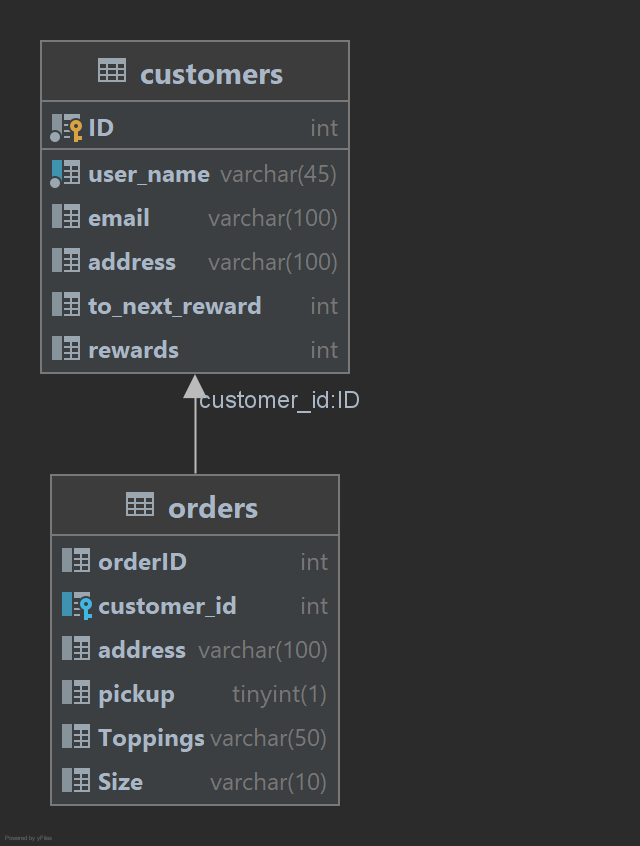
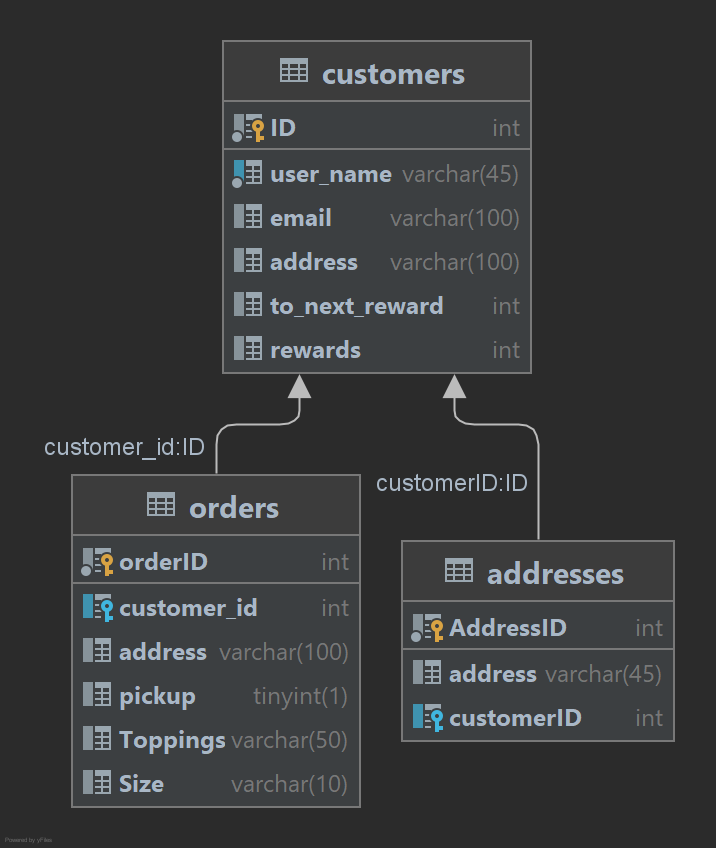
ERD updated

diff --git a/src/main/java/com/mistertoo/pizzawebsite/entity/Address.java b/src/main/java/com/mistertoo/pizzawebsite/entity/Address.java
@@ -1,0 +1,44 @@
+package com.mistertoo.pizzawebsite.entity;
+
+import javax.persistence.*;
+
+@Table(name = "addresses", indexes = {
+        @Index(name = "customerID_idx", columnList = "customerID")
+})
+@Entity
+public class Address {
+    @Id
+    @Column(name = "AddressID", nullable = false)
+    private Integer id;
+
+    @Column(name = "address", length = 45)
+    private String address;
+
+    @ManyToOne
+    @JoinColumn(name = "customerID")
+    private Customer customerID;
+
+    public Customer getCustomerID() {
+        return customerID;
+    }
+
+    public void setCustomerID(Customer customerID) {
+        this.customerID = customerID;
+    }
+
+    public String getAddress() {
+        return address;
+    }
+
+    public void setAddress(String address) {
+        this.address = address;
+    }
+
+    public Integer getId() {
+        return id;
+    }
+
+    public void setId(Integer id) {
+        this.id = id;
+    }
+}

diff --git a/src/main/java/com/mistertoo/pizzawebsite/entity/Customer.java b/src/main/java/com/mistertoo/pizzawebsite/entity/Customer.java
@@ -30,6 +30,9 @@ public class Customer {
     @OneToMany(mappedBy = "customer", cascade = CascadeType.ALL, orphanRemoval = true)
     private List<Order> orders = new ArrayList<>();
 
+    @OneToMany(mappedBy = "customerID", cascade = CascadeType.ALL, orphanRemoval = true)
+    private List<Address> addresses = new ArrayList<>();
+
     /**
      * Instantiates a new Customer.
      */
